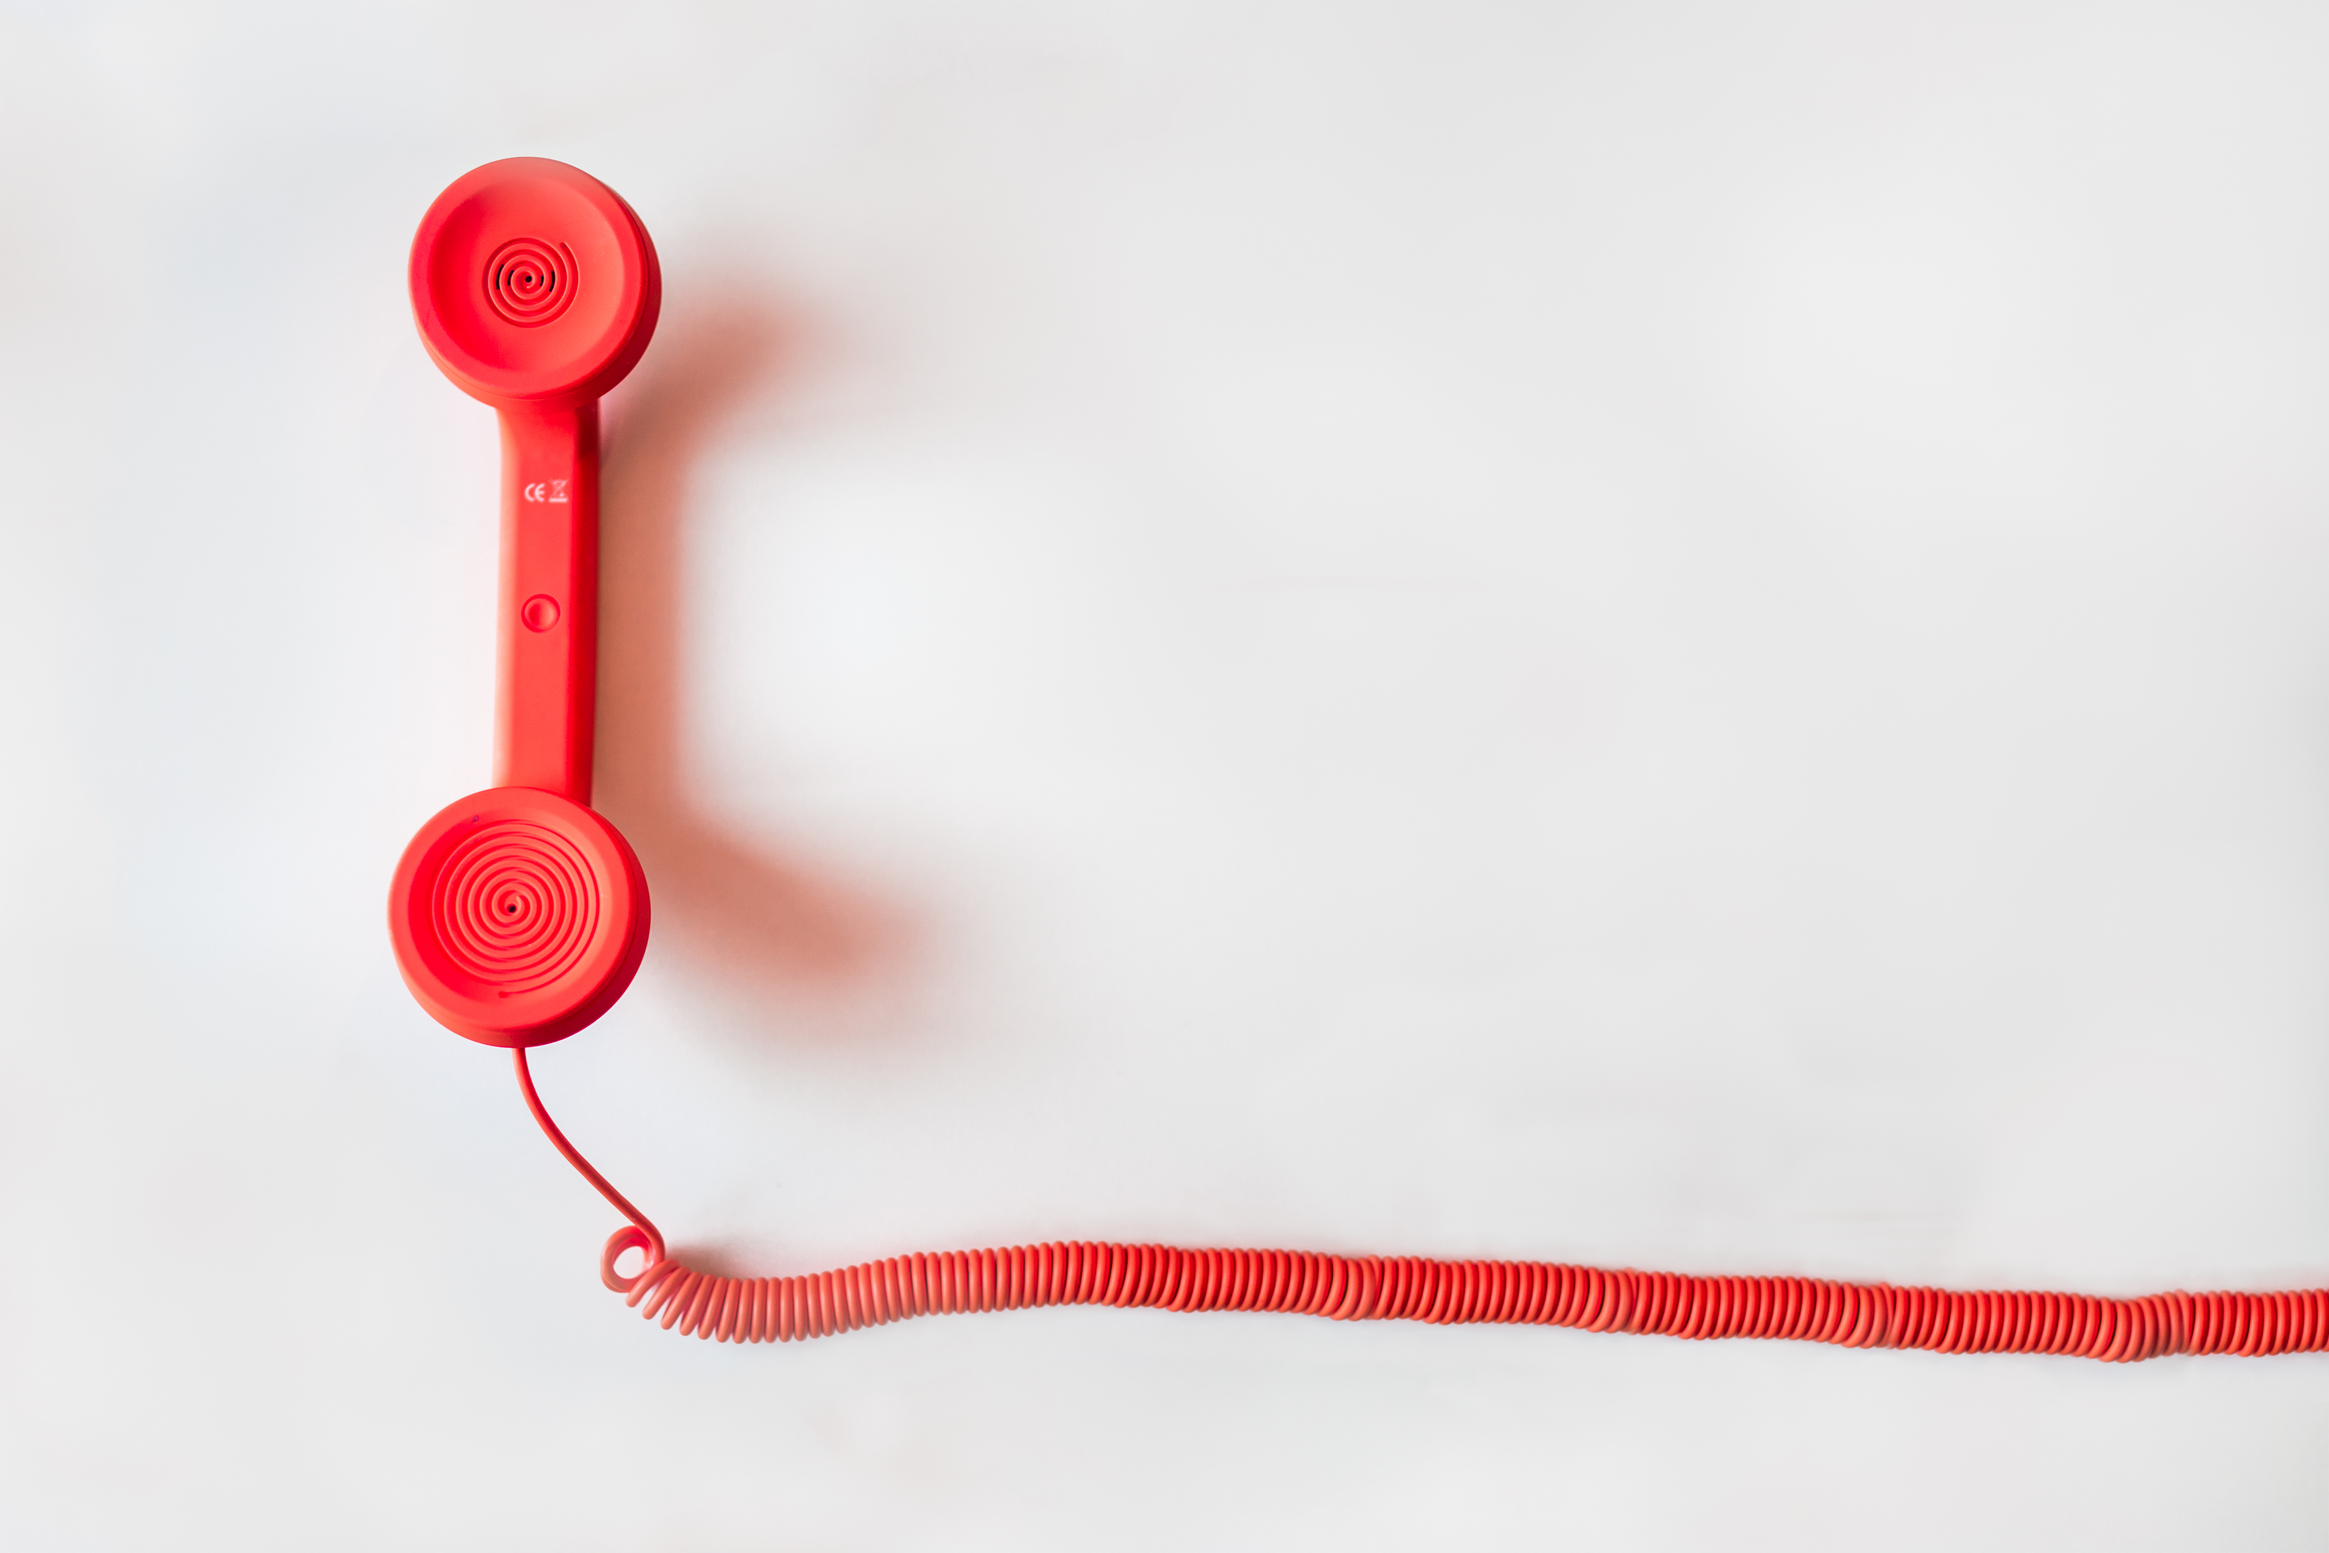
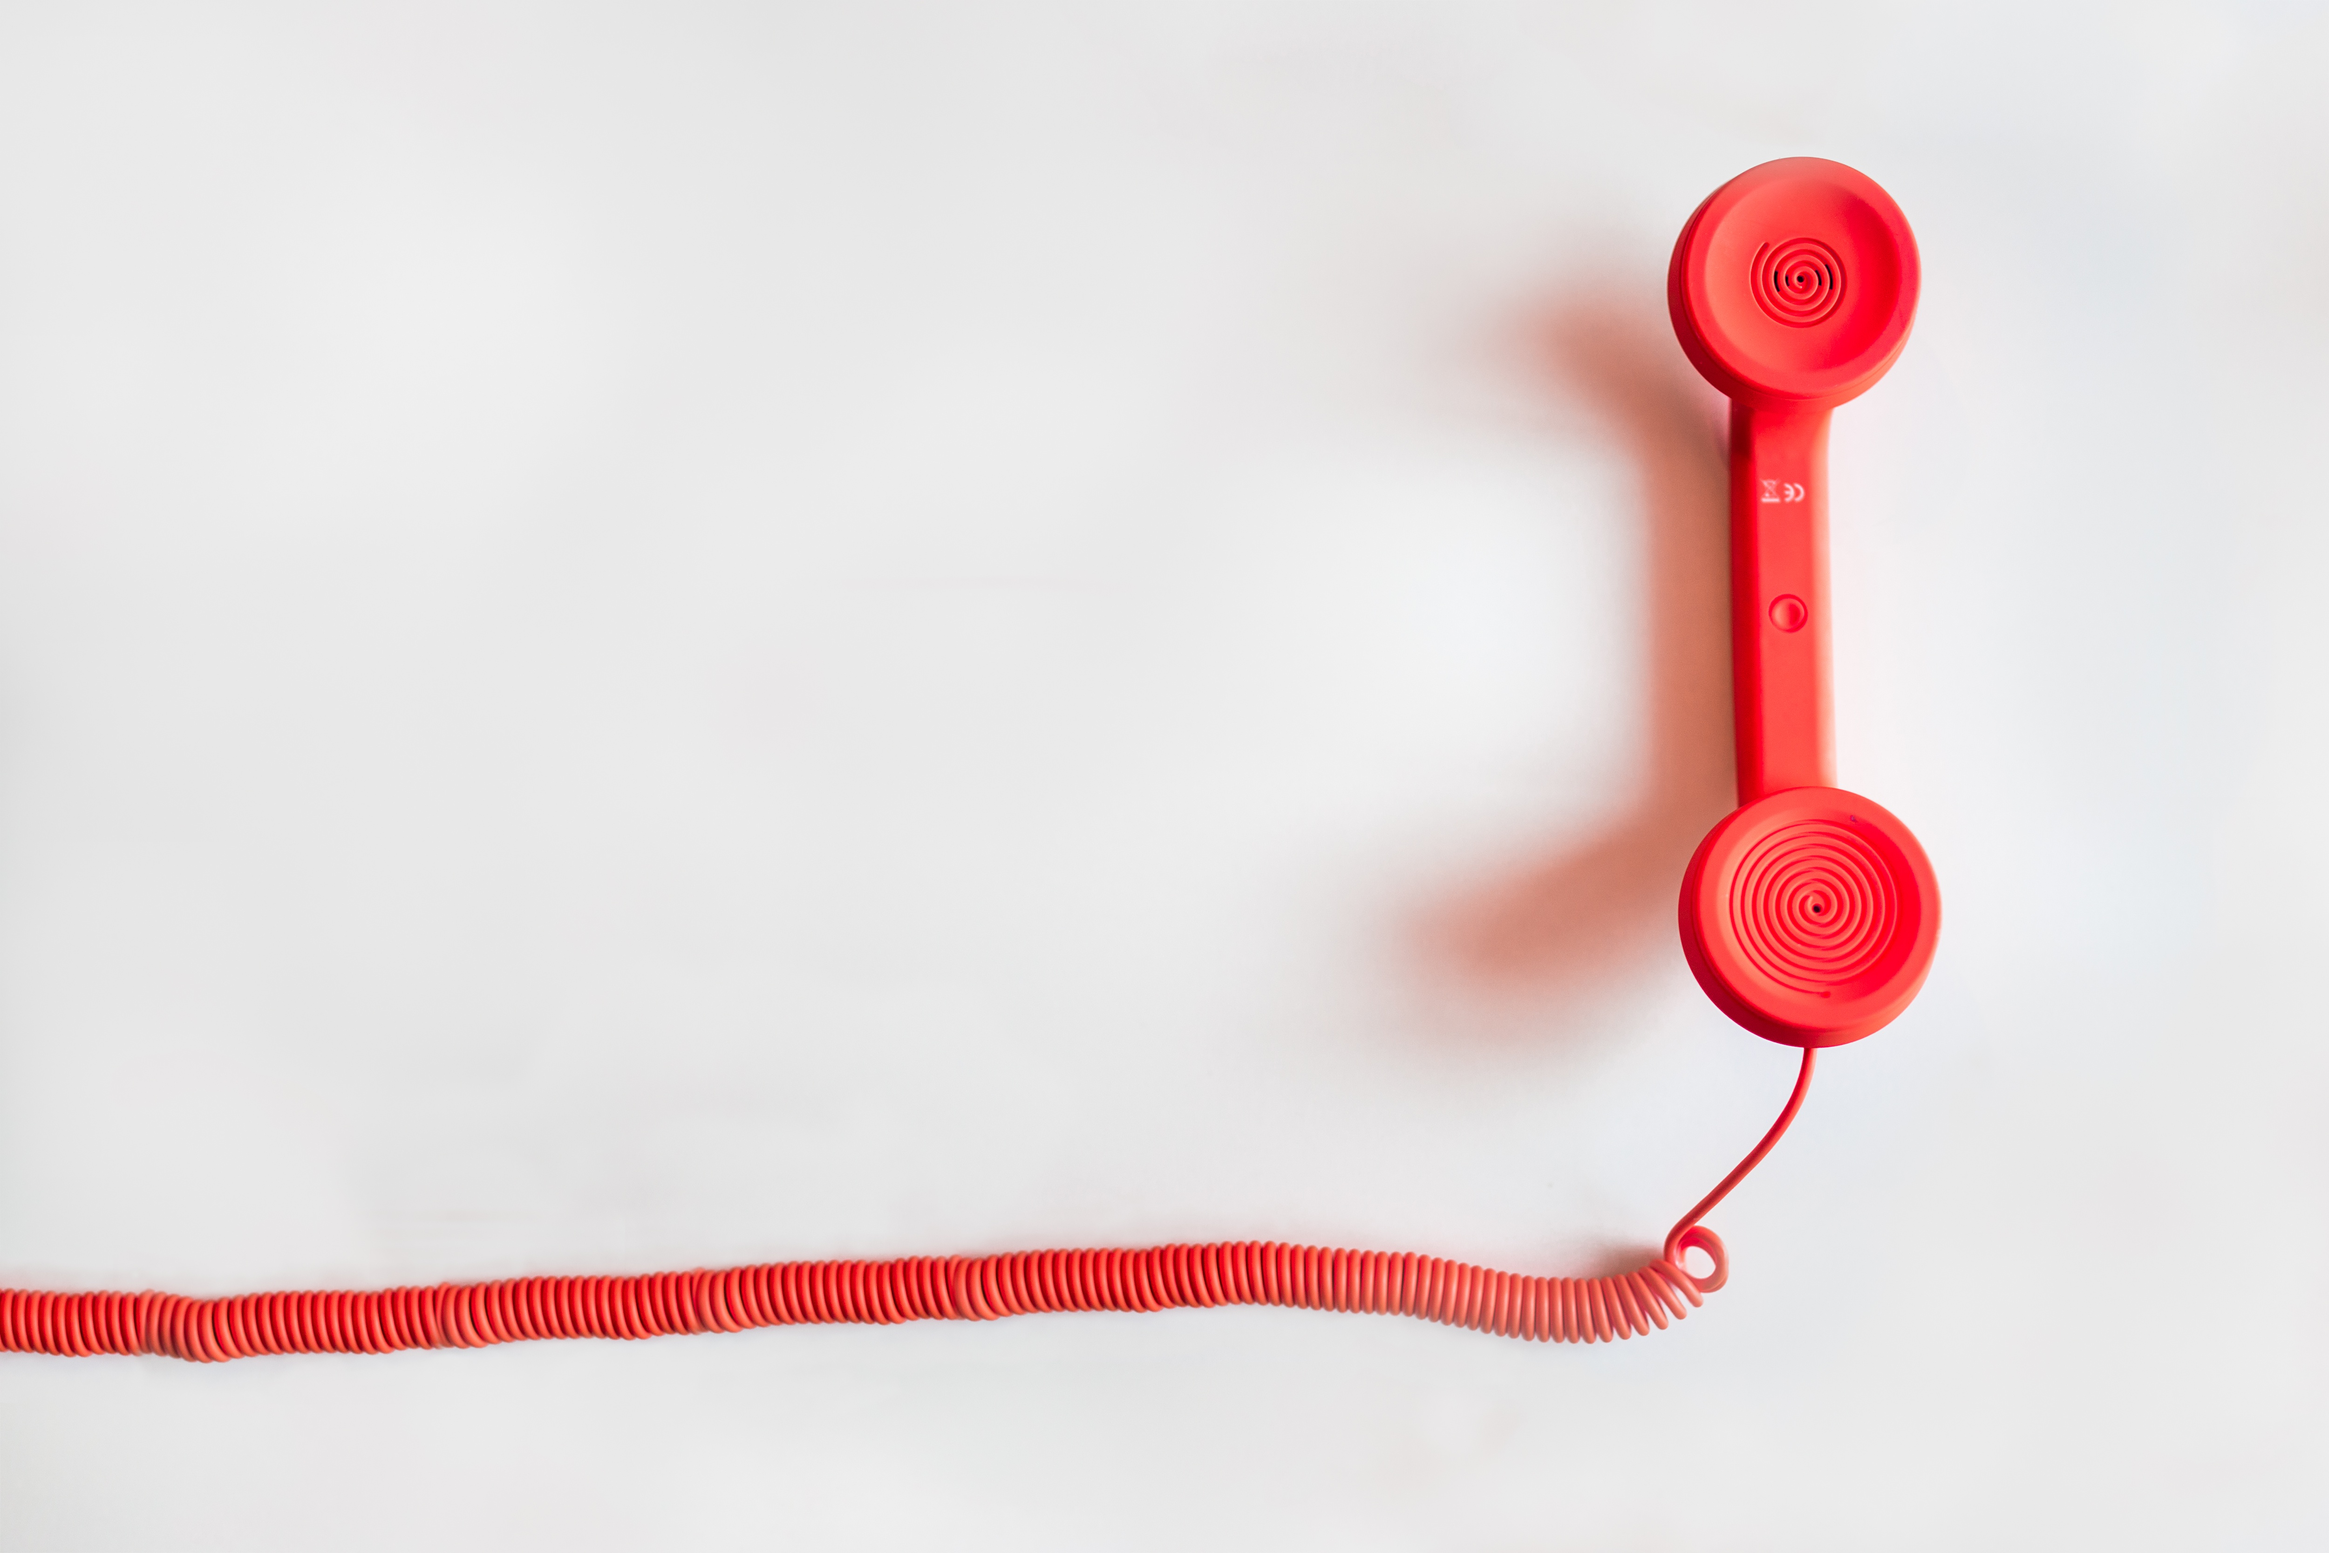
Neaten up contact form.

diff --git a/css/main.css b/css/main.css
@@ -412,97 +412,107 @@ header {
 .service-marketing {
   background-color: #474747; }
 
-#contact {
-  /* form starting stylings ------------------------------- */
-  /* LABEL ======================================= */
-  /* active state */
-  /* BOTTOM BARS ================================= */
-  /* active state */
-  /* HIGHLIGHTER ================================== */
-  /* active state */
-  /* ANIMATIONS ================ */ }
-  #contact .email {
-    color: #fff; }
-  #contact .group {
-    position: relative;
-    margin-bottom: 25px; }
-  #contact input {
-    font-size: 18px;
-    padding: 10px 10px 10px 5px;
-    display: block;
-    width: 300px;
-    border: none;
-    border-bottom: 1px solid #757575; }
-  #contact input:focus {
-    outline: none; }
-  #contact label {
-    color: #999;
-    font-size: 18px;
-    font-weight: normal;
-    position: absolute;
-    pointer-events: none;
-    left: 5px;
-    top: 10px;
-    transition: 0.2s ease all;
-    -moz-transition: 0.2s ease all;
-    -webkit-transition: 0.2s ease all; }
-  #contact input:focus ~ label,
-  #contact input:valid ~ label {
-    top: -20px;
-    font-size: 14px;
-    color: #5264AE; }
-  #contact .bar {
-    position: relative;
-    display: block;
-    width: 300px; }
-  #contact .bar:before,
-  #contact .bar:after {
-    content: '';
-    height: 2px;
-    width: 0;
-    bottom: 1px;
-    position: absolute;
-    background: #5264AE;
-    transition: 0.2s ease all;
-    -moz-transition: 0.2s ease all;
-    -webkit-transition: 0.2s ease all; }
-  #contact .bar:before {
-    left: 50%; }
-  #contact .bar:after {
-    right: 50%; }
-  #contact input:focus ~ .bar:before,
-  #contact input:focus ~ .bar:after {
-    width: 50%; }
-  #contact .highlight {
-    position: absolute;
-    height: 60%;
-    width: 100px;
-    top: 25%;
-    left: 0;
-    pointer-events: none;
-    opacity: 0.5; }
-  #contact input:focus ~ .highlight {
-    -webkit-animation: inputHighlighter 0.3s ease;
-    -moz-animation: inputHighlighter 0.3s ease;
-    animation: inputHighlighter 0.3s ease; }
+#contact .contact-form {
+  border: 2px solid #222;
+  padding: 50px; }
+
+#contact h2 {
+  text-align: left; }
+
+#contact .email {
+  color: #fff; }
+
+#contact .group {
+  position: relative;
+  margin-bottom: 25px; }
+
+#contact input {
+  padding: 10px 10px 10px 5px;
+  display: block;
+  width: 100%;
+  border: none;
+  border-bottom: 1px solid #222;
+  background: transparent; }
+
+#contact input:focus {
+  outline: none; }
+
+#contact label {
+  color: #222;
+  font-size: 18px;
+  font-weight: normal;
+  position: absolute;
+  pointer-events: none;
+  left: 5px;
+  top: 10px;
+  transition: 0.2s ease all;
+  -moz-transition: 0.2s ease all;
+  -webkit-transition: 0.2s ease all; }
+
+#contact input:focus ~ label,
+#contact input:valid ~ label {
+  top: -20px;
+  font-size: 14px;
+  color: #222; }
+
+#contact .bar {
+  position: relative;
+  display: block;
+  width: 100%; }
+
+#contact .bar:before,
+#contact .bar:after {
+  content: '';
+  height: 2px;
+  width: 0;
+  bottom: 1px;
+  position: absolute;
+  background: #222;
+  transition: 0.2s ease all;
+  -moz-transition: 0.2s ease all;
+  -webkit-transition: 0.2s ease all; }
+
+#contact .bar:before {
+  left: 50%; }
+
+#contact .bar:after {
+  right: 50%; }
+
+#contact input:focus ~ .bar:before,
+#contact input:focus ~ .bar:after {
+  width: 50%; }
+
+#contact .highlight {
+  position: absolute;
+  height: 60%;
+  width: 33%;
+  top: 25%;
+  left: 0;
+  pointer-events: none;
+  opacity: 0.5; }
+
+#contact input:focus ~ .highlight {
+  -webkit-animation: inputHighlighter 0.3s ease;
+  -moz-animation: inputHighlighter 0.3s ease;
+  animation: inputHighlighter 0.3s ease; }
 
 @-webkit-keyframes inputHighlighter {
   from {
-    background: #5264AE; }
+    background: #222; }
   to {
     width: 0;
     background: transparent; } }
 
 @-moz-keyframes inputHighlighter {
   from {
-    background: #5264AE; }
+    background: #222; }
   to {
     width: 0;
     background: transparent; } }
 
 @keyframes inputHighlighter {
   from {
-    background: #5264AE; }
+    background: #222; }
   to {
     width: 0;
     background: transparent; } }

diff --git a/index.html b/index.html
@@ -208,28 +208,48 @@
     <section class="parallax-window" data-parallax="scroll" data-img-src="img/phone.jpg" id="contact">
         <div class="container">
             <div class="row">
-                <div class="col-lg-8 col-lg-offset-2 text-center">
-                    <h2 class="section-heading">LET'S JAM</h2>
-                    <h4>Whoever you are, you need to be heard. We’re here to help.</h4>
+                <div class="col-lg-6 text-left">
+                    <h2 class="section-heading">Whoever you are, you need to be heard.</h2>
+                    <h2 class="section-heading">We’re here to help.</h2>
                 </div>
             </div>
             <div class="row">
-                <form action="https://formspree.io/hello@arraydesign.co"
-                      method="POST">
-                    <div class="group">      
-                      <input type="text" name="name" required>
-                      <span class="highlight"></span>
-                      <span class="bar"></span>
-                      <label>Name</label>
-                    </div>
-                    <div class="group">      
-                      <input type="email" name="_replyto" required>
-                      <span class="highlight"></span>
-                      <span class="bar"></span>
-                      <label>Email</label>
-                    </div>
-                    <input type="submit" value="Send">
-                </form>
+                <div class="col-lg-6 contact-form">
+                    <form action="https://formspree.io/hello@arraydesign.co"
+                          method="POST">
+                        <div class="group">      
+                            <input type="text" name="name" required>
+                            <span class="highlight"></span>
+                            <span class="bar"></span>
+                            <label>Name</label>
+                        </div>
+                        <div class="group">      
+                            <input type="email" name="_replyto" required>
+                            <span class="highlight"></span>
+                            <span class="bar"></span>
+                            <label>Email Address</label>
+                        </div>
+                        <div class="group">      
+                            <input type="text" name="who" required>
+                            <span class="highlight"></span>
+                            <span class="bar"></span>
+                            <label>Who are you? (e.g. DJ, songwriter, saxophonist):</label>
+                        </div>
+                        <div class="group">      
+                            <input type="text" name="genre" required>
+                            <span class="highlight"></span>
+                            <span class="bar"></span>
+                            <label>What genre(s) of music do you make?</label>
+                        </div>
+                        <div class="group">      
+                            <input type="text" name="commitment" required>
+                            <span class="highlight"></span>
+                            <span class="bar"></span>
+                            <label>How big of a commitment is music to you in your life?</label>
+                        </div>
+                        <button class="btn btn-default btn-lg" type="submit" value="Send">LET'S JAM</button>
+                    </form>
+                </div>
             </div>
         </div>
     </section>

diff --git a/sass/partials/_contact.scss b/sass/partials/_contact.scss
@@ -1,30 +1,37 @@
 #contact {
+  .contact-form {
+    border: 2px solid $black;
+    padding: 50px;
+  }
+
+  h2 {
+    text-align: left;
+  }
+
   .email {
     color: $white;
   }
 
-  /* form starting stylings ------------------------------- */
   .group { 
     position: relative; 
     margin-bottom: 25px; 
   }
 
   input {
-    font-size: 18px;
     padding: 10px 10px 10px 5px;
     display: block;
-    width: 300px;
+    width: 100%;
     border: none;
-    border-bottom: 1px solid #757575;
+    border-bottom: 1px solid $black;
+    background: transparent;
   }
 
   input:focus {
     outline: none;
   }
 
-  /* LABEL ======================================= */
   label {
-    color: #999; 
+    color: $black; 
     font-size: 18px;
     font-weight: normal;
     position: absolute;
@@ -36,19 +43,17 @@
     -webkit-transition: 0.2s ease all;
   }
 
-  /* active state */
   input:focus ~ label,
   input:valid ~ label {
     top: -20px;
     font-size: 14px;
-    color: #5264AE;
+    color: $black;
   }
 
-  /* BOTTOM BARS ================================= */
   .bar {
     position: relative;
     display: block;
-    width: 300px;
+    width: 100%;
   }
 
   .bar:before,
@@ -58,7 +63,7 @@
     width: 0;
     bottom: 1px; 
     position: absolute;
-    background: #5264AE; 
+    background: $black; 
     transition: 0.2s ease all; 
     -moz-transition: 0.2s ease all; 
     -webkit-transition: 0.2s ease all;
@@ -67,56 +72,55 @@
   .bar:before {
     left: 50%;
   }
+
   .bar:after {
     right: 50%; 
   }
 
-  /* active state */
   input:focus ~ .bar:before,
   input:focus ~ .bar:after {
     width: 50%;
   }
 
-  /* HIGHLIGHTER ================================== */
   .highlight {
     position: absolute;
     height: 60%; 
-    width: 100px; 
+    width: 33%; 
     top: 25%; 
     left: 0;
     pointer-events: none;
     opacity: 0.5;
   }
 
-  /* active state */
   input:focus ~ .highlight {
     -webkit-animation: inputHighlighter 0.3s ease;
     -moz-animation: inputHighlighter 0.3s ease;
     animation: inputHighlighter 0.3s ease;
   }
 
-  /* ANIMATIONS ================ */
   @-webkit-keyframes inputHighlighter {
     from {
-      background: #5264AE;
+      background: $black;
     }
     to  {
       width: 0;
       background: transparent;
     }
   }
+
   @-moz-keyframes inputHighlighter {
     from {
-      background: #5264AE;
+      background: $black;
     }
     to {
       width: 0;
       background: transparent;
     }
   }
+
   @keyframes inputHighlighter {
     from {
-      background: #5264AE;
+      background: $black;
     }
     to {
       width: 0;

diff --git a/js/main.js b/js/main.js
@@ -64,7 +64,7 @@
     // Initialize parallax
     $('#header').parallax({imageSrc: '../img/dream-show.jpg'});
     $('#hook').parallax({imageSrc: '../img/growth.jpg'});
-    $('#contact').parallax({imageSrc: '../img/growth.jpg'});
+    $('#contact').parallax({imageSrc: '../img/phone.jpg'});
 })(jQuery); // End of use strict
 
 $(function() {
